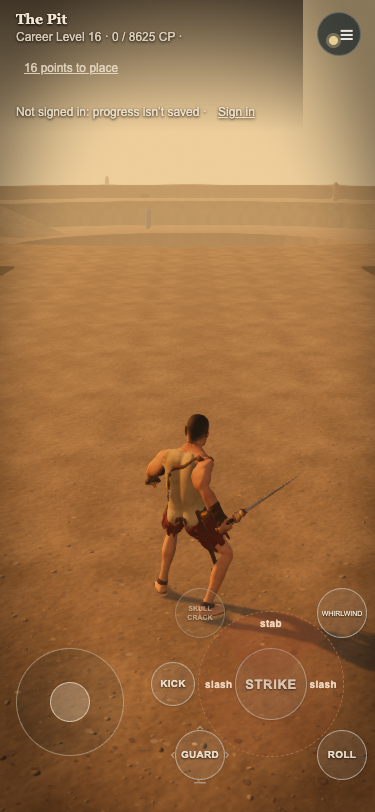
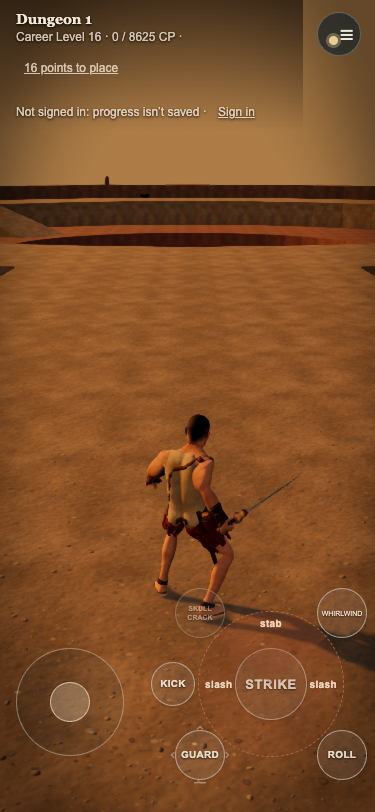
world: Dungeon 1 bowl: no placeholder fighters, deeper blood tints, fog/exposure and names as rows, zone7-start warp, yard/duel-pit safeAreas, HUD title from the zone row

diff --git a/origins/preview/main.ts b/origins/preview/main.ts
@@ -486,7 +486,7 @@ function step(dt: number) {
   // Zone 1's own combat (wc.update below) is stepped with the walk, every frame.
   syncRigWeapon();
   if (mobs) { mobs.update(dt, state, cardId); woundFx?.update(dt); engageAhead.frame(mobs.within(state.x, state.z, 16).map((m) => ({ id: m.spec.id, dist: m.dist, aggro: m.spec.aggro })), (id) => wc.debug().some((f) => f.id === id)); { const aim = mobs.nearest(state.x, state.z, 3.5); const mv = wc.update(dt, { x: state.x, z: state.z, facing: aim ? Math.atan2(aim.x - state.x, aim.z - state.z) : heading }); zoneFx.frame(wc.takeContacts(), dt); if (mv.dx || mv.dz) { const rx = state.x + mv.dx, rz = state.z + mv.dz; if (canStand(rx, rz)) { state.x = rx; state.z = rz; } else if (canStand(rx, state.z)) state.x = rx; else if (canStand(state.x, rz)) state.z = rz; } if (!duelLayer.classList.contains('infight')) meters.feed(wc); document.body.classList.toggle('infight', wc.inCombat()); spawnNet.tick(); zoneSound.flush(); } if ((cardClock += dt) > 0.2) { cardClock = 0; { const seen = mobs.seen(), f =seen.find((m) => m.id === legendFocus); if (f && Math.hypot(f.x - state.x, f.z - state.z) > LEGEND_REACH * 2) legendFocus = null; cardId = creatureCard.update(seen, state, legendFocus, wc.target()?.id ?? null); } } }
-  const label = zone ? zone.name : frontier && state.x < -19.5 ? 'The West Road' : atForge ? 'The Blacksmith' : state.z > -11 ? 'The Pit' : state.z > PASSAGE.to ? 'The Gladiator Gate' : state.z > -58 ? 'The Concord Exchange' : 'The Exchange — the bank';
+  const label = zone ? zone.name : PIT_LAYOUT && zoneRow ? zoneRow.name : frontier && state.x < -19.5 ? 'The West Road' : atForge ? 'The Blacksmith' : state.z > -11 ? 'The Pit' : state.z > PASSAGE.to ? 'The Gladiator Gate' : state.z > -58 ? 'The Concord Exchange' : 'The Exchange — the bank';
   if (place.textContent !== label) { place.textContent = label; presence?.flush(); }   // a new place: presence hears the pose now, so the place it saves is fresh
   const g = frontier?.giver, sign = frontier?.signs.find((s) => s.back);
   groundNear = groundPickup.nearest(state.x, state.z);
